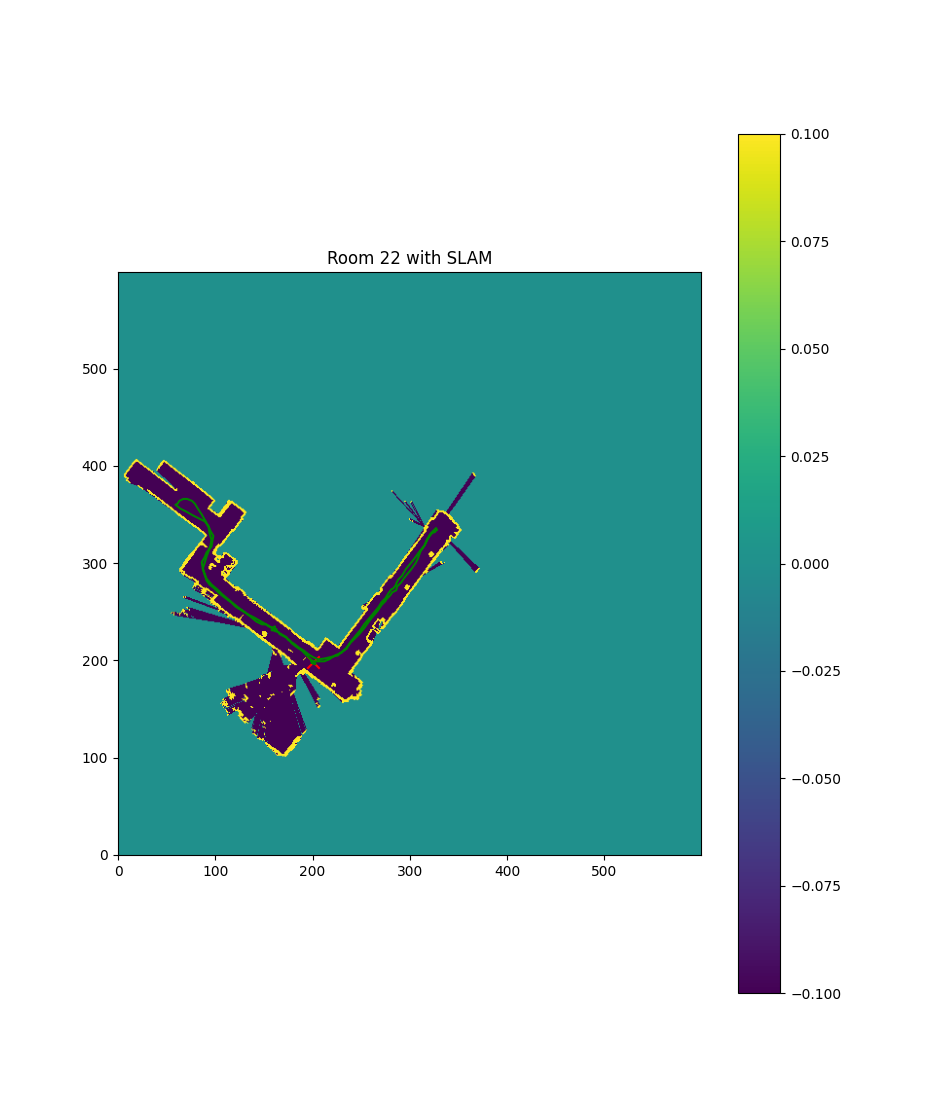
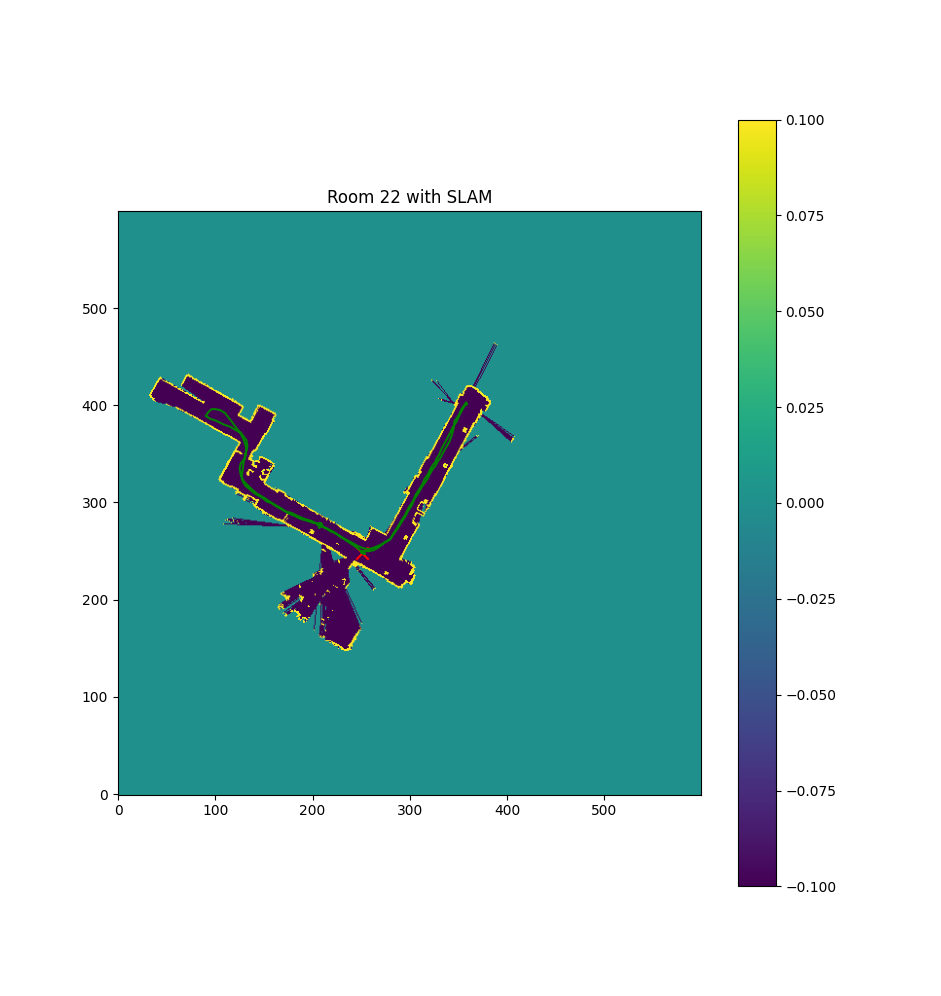
Fixing evaluate_dataset pipeline and readme

diff --git a/scripts/run_slam.py b/scripts/run_slam.py
@@ -29,7 +29,7 @@ def slam(room_name):
 
     lidar = ld.get_lidar(lidar_path)
 
-    best_grid = occupancy_grid(0, 0, 0.1, (-20,40), f"Room {room_name}")
+    best_grid = occupancy_grid(0, 0, 0.1, (-25,35), f"Room {room_name}")
     best_trajectory = []
 
     # For each lidar scan:
@@ -40,8 +40,6 @@ def slam(room_name):
     num_scan = len(lidar)
     best_grid.init_live_plot()
     for idx, scan in enumerate(lidar):
-        # if (idx % 3 == 0):
-        #     continue
         
         d_forward = delta_forward[idx]
         d_perp = delta_perp[idx]
@@ -70,7 +68,7 @@ def slam(room_name):
                 particle[0],
                 particle[1],
                 particle[2],
-                res=1
+                res=5
             )
             ox_grid, oy_grid = best_grid.hits_to_grid_cells(ox, oy)
             miss_x_grid, miss_y_grid = best_grid.miss_to_grid_cells(ox_grid, oy_grid, particle[0], particle[1])

diff --git a/scripts/evaluate_dataset.py b/scripts/evaluate_dataset.py
@@ -2,6 +2,7 @@ from run_slam import slam
 
 def main():
 
+    # To run just 24, room_names = ["24"]
     room_names = ["20", "21", "22", "23", "24"]
 
     for room_name in room_names:

diff --git a/README.md b/README.md
@@ -57,7 +57,7 @@ The project is organized into clear, modular sections:
 Like the previous project, this uses UV for dependency management. After cloning the repository, set up and run:
 
 ```bash
-uv run ./scripts/run_slam.py
+uv run ./scripts/evaluate_dataset.py
 ```
 
-This loads sensor data from the training set and executes the full SLAM pipeline for a single room, then generates visualizations in `outputs/`.
+This loads sensor data from the training set and executes the full SLAM pipeline for a single room, then generates visualizations in `outputs/`. Note that if you have existing output figures already, they will get overwritten!
